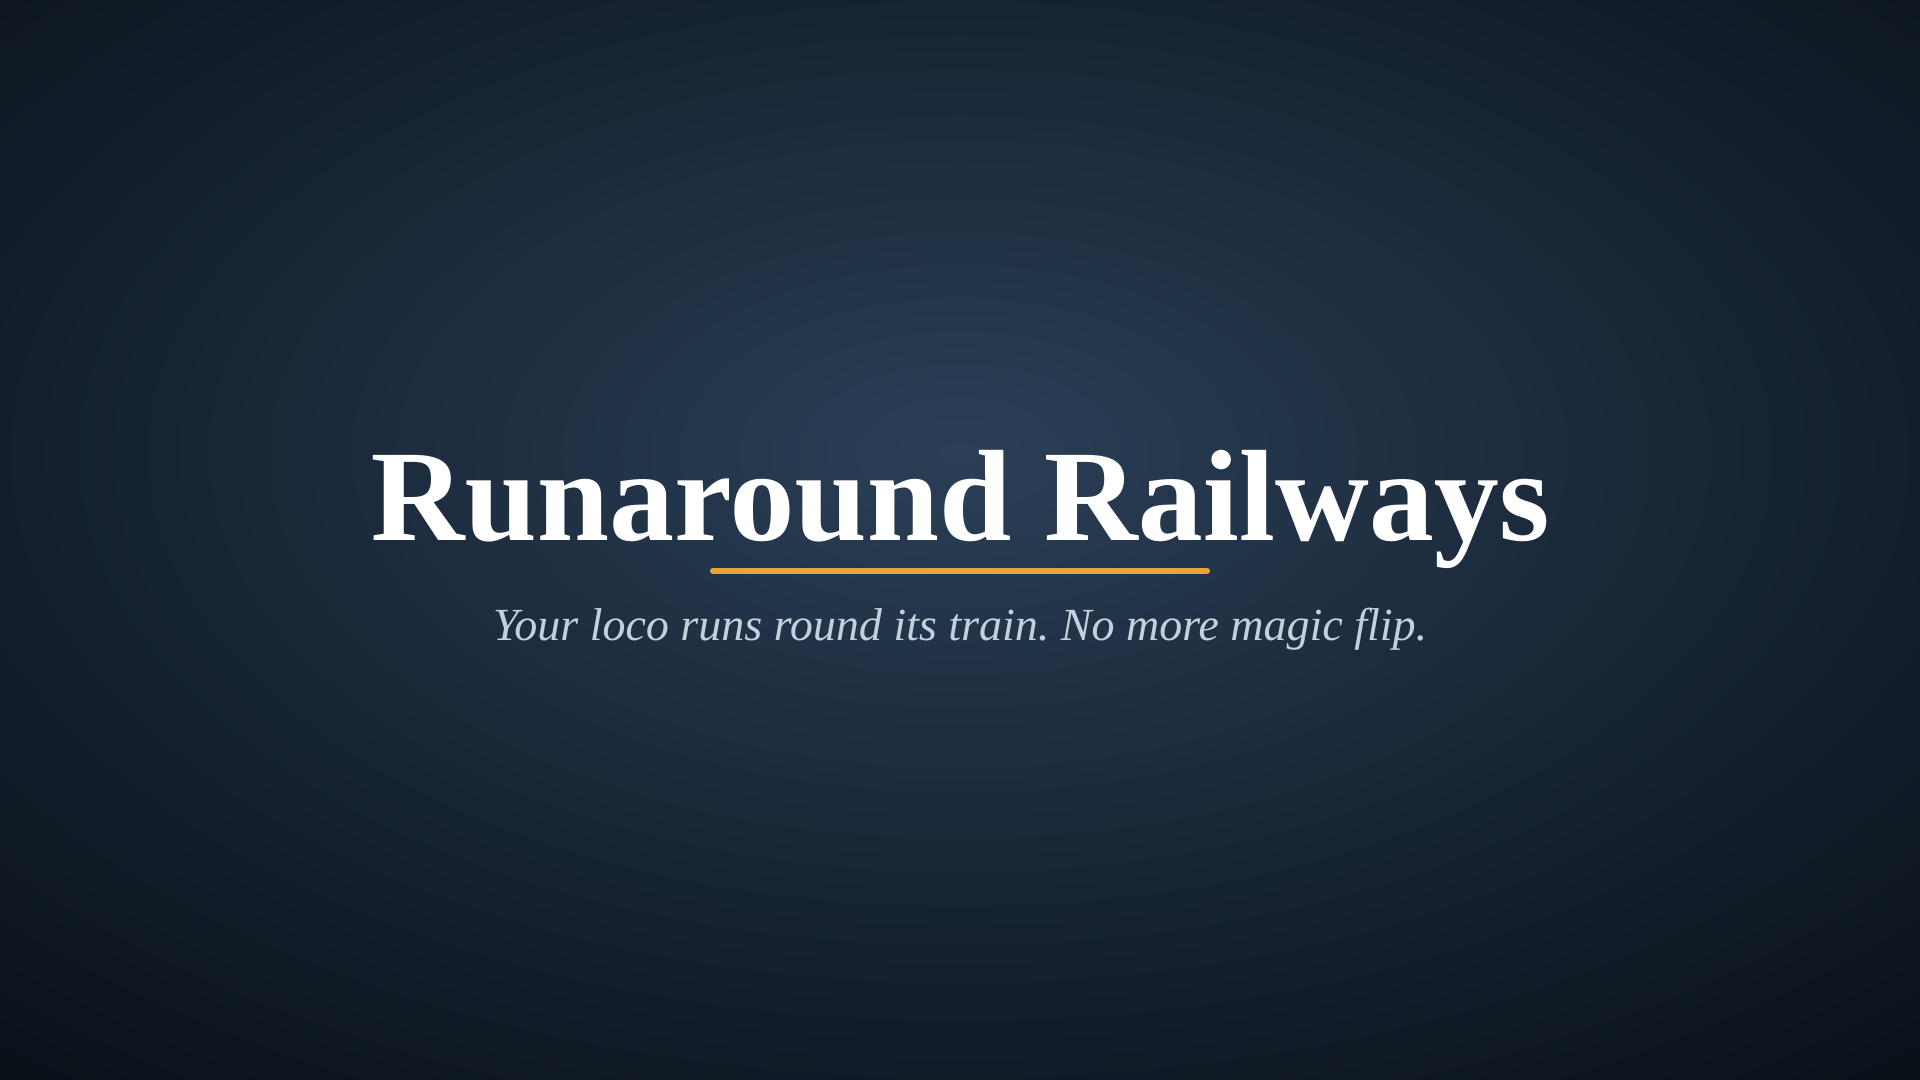
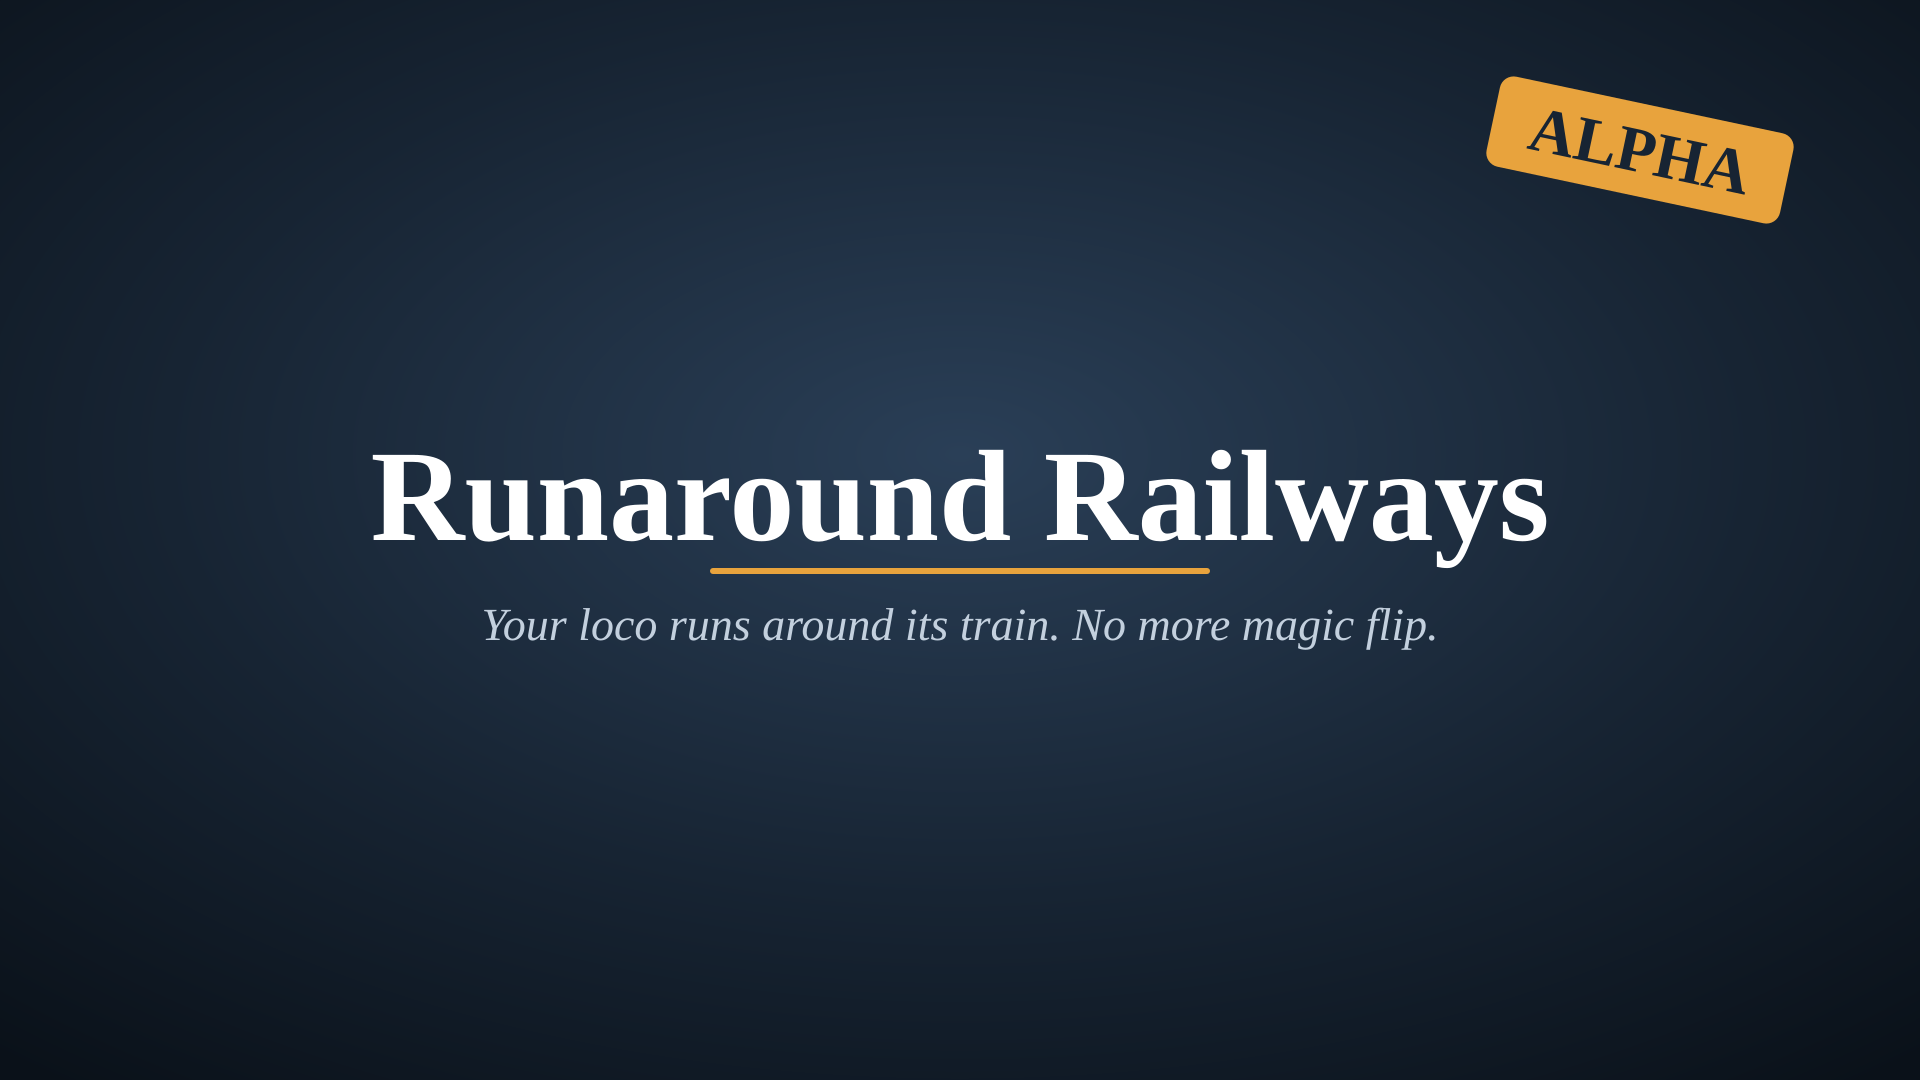
ALPHA: name, badge, README status, changelog, search keywords; 'runs around its train' wording

Changed region(s): [[0.25, 0.55, 0.75, 0.6111], [0.75, 0.0611, 0.9375, 0.2139]]

diff --git a/MODIO.md b/MODIO.md
@@ -2,7 +2,7 @@
 
 ## Name
 
-Runaround Railways
+Runaround Railways (ALPHA)
 
 ## Author
 
@@ -10,15 +10,21 @@ LondoSpark
 
 ## Summary (max 250 characters)
 
-Your locomotive runs round its train at the terminus instead of the instant flip. Click a few points on the track, and the loco uncouples, runs round with its own sound, smoke and paint, and couples on at the other end.
+ALPHA. Your loco runs around its train at the terminus instead of the instant flip. Click a few points on the track: it uncouples, runs around with its own sound, smoke and paint, and couples on at the other end.
 
 ## Tags
 
-Script Mod, Trains, Gameplay
+Script Mod, Trains, Gameplay, Alpha
+
+## Search keywords (put these in the description so people find it)
+
+run around, run-around, runaround, run round, run-round loop, locomotive, loco, terminus, flip, reverse, shunting, headshunt, wye, steam
 
 ## Description (paste into the description field; it is HTML)
 
-<p><strong>Your locomotive runs round its train at the terminus, instead of the game's instant flip.</strong></p>
+<p><strong>ALPHA - an early test release. It works, but it has only been tried on a few layouts: please try it and tell me what breaks.</strong></p>
+
+<p><strong>Your locomotive runs around its train at the terminus, instead of the game's instant flip.</strong> A proper run-around (run round, run-round loop) for Transport Fever 3.</p>
 
 <p>When a train arrives at a terminus you've set up, the loco uncouples and drives off along the route you picked: into a loop, onto a headshunt or round a wye. It reverses where it needs to, comes back down the other road and couples on at the far end. Then the train leaves with the loco leading.</p>
 
@@ -31,14 +37,14 @@ Script Mod, Trains, Gameplay
 <li>Set up entirely in game: click a few points on the track and the route is worked out for you with the game's own pathfinder, including where to reverse.</li>
 <li>The route is drawn on the track while you edit it.</li>
 <li>Any number of stations, on any number of lines. Every train on the line does it, clones included.</li>
-<li>Your loco runs round as itself: its own model, sound, smoke, turning wheels and paint.</li>
+<li>Your loco runs around as itself: its own model, sound, smoke, turning wheels and paint.</li>
 <li>Works with every base-game and DLC locomotive, and with modded locos (see below).</li>
 </ul>
 
 <h2>How to set up a run-around</h2>
 <ol>
 <li><strong>Open a train's window.</strong> Pick any train on the line. It has a new <strong>Run-around</strong> card.</li>
-<li><strong>Add a run-around.</strong> The card lists the stops of that line, with the one the train is at first. Click the station where the loco should run round.</li>
+<li><strong>Add a run-around.</strong> The card lists the stops of that line, with the one the train is at first. Click the station where the loco should run around.</li>
 <li><strong>Draw the route.</strong> Click <strong>Edit route on map</strong>, then click a few points on the track where the loco should go, in order. For a simple loop that's usually:
   <ol>
   <li>a piece of track beyond the points, where the loco will stop and reverse;</li>
@@ -47,7 +53,7 @@ Script Mod, Trains, Gameplay
   </ol>
 You don't click every piece of track, the station, or the exact reversing spot. The loco reverses just clear of the points. Right-click, Esc or <strong>Done</strong> when finished.</li>
 <li><strong>Check it.</strong> The card shows the route's length, reversals and points. A warning says which two points couldn't be joined.</li>
-<li><strong>That's it.</strong> The next time a train on that line arrives there, its loco runs round.</li>
+<li><strong>That's it.</strong> The next time a train on that line arrives there, its loco runs around.</li>
 </ol>
 
 <p>On the map, the route runs from <strong>blue</strong> at the start to <strong>orange</strong> at the end. The pieces where the loco reverses are <strong>purple</strong>, and the pieces you clicked have a <strong>white line</strong>. The card's settings hold the name, the loco's speed and acceleration, which part of the train is the loco (automatic by default), and delete.</p>
@@ -56,8 +62,8 @@ You don't click every piece of track, the station, or the exact reversing spot. 
 <ul>
 <li><strong>One loco plus coaches or wagons.</strong> Multiple units and double-heading are not handled yet.</li>
 <li><strong>The running loco ignores signals.</strong> Use a loop that other trains won't be on at the same time.</li>
-<li><strong>The coaches creep forward by one loco length</strong> while the loco is away. A train that has had its loco run round really is a loco length further along the track. In this game that can only happen by the coaches moving, so they slide a quarter of a metre at a time instead of jumping.</li>
-<li><strong>Modded locos</strong> that use the game's own sound sets and train animation script run round as themselves. Those with their own sound or animation scripts run round as a copy of themselves, with their smoke, wheels and paint, but without sound unless they use one of the game's sound sets.</li>
+<li><strong>The coaches creep forward by one loco length</strong> while the loco is away. A train that has had its loco run around really is a loco length further along the track. In this game that can only happen by the coaches moving, so they slide a quarter of a metre at a time instead of jumping.</li>
+<li><strong>Modded locos</strong> that use the game's own sound sets and train animation script run around as themselves. Those with their own sound or animation scripts run around as a copy of themselves, with their smoke, wheels and paint, but without sound unless they use one of the game's sound sets.</li>
 <li>Run-arounds belong to a line and a stop. If you insert or remove stops earlier in the line, check the run-around still points at the right station.</li>
 <li>Install, then <strong>restart the game fully</strong>: script mods are only loaded at start-up.</li>
 </ul>

diff --git a/README.md b/README.md
@@ -1,6 +1,6 @@
-# Runaround Railways
+# Runaround Railways — ALPHA
 
-**Your locomotive runs round its train at the terminus, instead of the game's
+**Your locomotive runs around its train at the terminus, instead of the game's
 instant flip.**
 
 When a train arrives at a terminus you've set up, the loco uncouples and drives
@@ -19,9 +19,12 @@ engine that arrived bunker-first leaves chimney-first, as it would for real.
 - Works with every base-game and DLC loco. Works with modded locos too; see
   [Modded locos](#modded-locos).
 
-> **Status: early release.** It works end to end in a live game, but it has
-> only been tried on a few layouts. Please report problems. See
-> [Reporting a problem](#reporting-a-problem).
+> **ALPHA — an early test release.** It works end to end in a live game, but
+> it has only been tried on a few layouts. Expect rough edges, and please tell
+> me what breaks. See [Reporting a problem](#reporting-a-problem). Saves with
+> run-arounds set up stay compatible as it develops.
+
+*Also known as: run-around, run round, runaround, run-round loop.*
 
 ---
 
@@ -42,7 +45,7 @@ run-arounds set up is safe too: trains then flip as normal.
 1. **Open a train's window.** Pick any train on the line. It gets a
    **Run-around** card.
 2. **Add a run-around.** The card lists the stops of that line, with the one the
-   train is at first. Click the station where the loco should run round. The
+   train is at first. Click the station where the loco should run around. The
    run-around is named after the station.
 3. **Draw the route.** Click **Edit route on map**, then click a few points on
    the track where the loco should go, in order. For a simple loop that's
@@ -58,7 +61,7 @@ run-arounds set up is safe too: trains then flip as normal.
 4. **Check it.** The card shows the route's length, reversals and points. A
    warning says which two points could not be joined.
 5. **That's it.** The next time a train on that line arrives there, its loco
-   runs round.
+   runs around.
 
 ## The Run-around card
 
@@ -66,13 +69,13 @@ In the train window, one card per run-around on the train's line.
 
 - **Route line**: length, reversals and points, or what's missing.
 - **While a run-around is happening**: a progress bar and what the loco is doing
-  (running round, turning the train, coupling on).
+  (running around, turning the train, coupling on).
 - **Edit route on map / Done**: draws the route and adds clicked points.
   - **Undo point** and **Clear points** appear while editing.
 - **Show / Hide**: draws the route without editing.
 - **Settings** (the collapsible part):
   - **Name**: click the pencil to rename.
-  - **Speed** and **Acceleration** of the loco while it runs round.
+  - **Speed** and **Acceleration** of the loco while it runs around.
   - **Loco**: *automatic* (the default) or a chosen part of the train.
     Automatic picks the part standing nearest the first route point, which works
     for trains with different locos on the same line.
@@ -128,10 +131,10 @@ at the front throughout, so the game's vehicle marker keeps still.
 
 Every rail loco is prepared when the game loads, including modded ones.
 
-- **Uses the game's own sound set and train animation script:** runs round as
+- **Uses the game's own sound set and train animation script:** runs around as
   itself, with its own sound, smoke, wheels and paint. That's every base-game
   and DLC loco, and many mods.
-- **Brings its own sound set or animation script:** runs round as a copy of its
+- **Brings its own sound set or animation script:** runs around as a copy of its
   own model, with its smoke, wheels and paint. It has sound only if it uses one
   of the game's sound sets. The game doesn't let mods create sound sets while
   it runs, so only sound sets shipped as files can be wrapped.
@@ -157,7 +160,7 @@ Useful log lines:
 | Line | Meaning |
 |---|---|
 | `loco setup: N locos; M can be their own ghost, ...` | at start-up, how many locos were prepared |
-| `ghost model: using the loco's OWN model` | the loco runs round as itself |
+| `ghost model: using the loco's OWN model` | the loco runs around as itself |
 | `ghost first step N m from where the loco stood` | should be about 0 |
 | `creep: ...` | the coaches moving and the train being turned |
 | `trace ...` | carriage positions at each step (set `LOG_TRACES = false` to silence) |
@@ -175,7 +178,7 @@ These are in the files, for tinkering. Most people won't need them.
 | `creepLayout` | `true` | creep the coaches forward; `false` = they jump once at the flip |
 | `creepStep` | `0.25` | metres per creep step: bigger = fewer, larger steps |
 | `creepStartDistance` | `30` | how far the loco drives before the creep starts |
-| `useRealModel` | `true` | run round as the loco's own model when possible |
+| `useRealModel` | `true` | run around as the loco's own model when possible |
 | `useEffectGhosts` | `true` | otherwise use the copy with smoke and sound |
 | `verifyFacing` | `true` | check the loco's facing after coupling, and correct it |
 | `LOG_ARRIVALS`, `LOG_TRACES` | `true` | logging |

diff --git a/CHANGELOG.md b/CHANGELOG.md
@@ -1,0 +1,15 @@
+# Changelog
+
+## 0.1.0-alpha (first public test release)
+
+- Locos run around their train at any terminus you set up, instead of the
+  instant flip.
+- Set up in the train window. Click a few points on the track: the route and the
+  reversing spots are planned for you. The route is drawn on the track while you
+  edit.
+- The loco runs around as itself, with its own sound, smoke, wheel animation and
+  paint. That covers every base-game and DLC loco, and modded locos that use the
+  game's sound sets and train scripts.
+- The loco keeps its facing: it couples on at the far end, the right way round.
+- The coaches creep forward a loco length while the loco is away, instead of
+  jumping. The game's own vehicle marker stays still.
